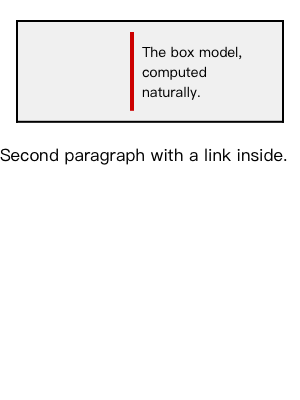
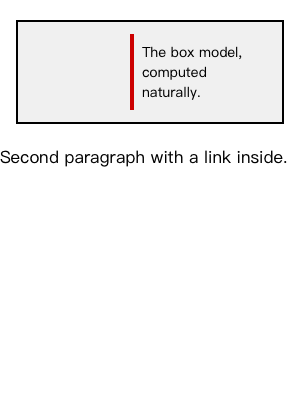
docs(browser-layout): numbers from the latest harness run

diff --git a/docs/browser-layout/phase2a-report.md b/docs/browser-layout/phase2a-report.md
@@ -4,15 +4,15 @@ _Generated by BrowserLayoutABHarnessTests; snapshot artifacts in the local cache
 
 | Book | Category | Chapters | Accepted | Rejected | Engine failures | Parity failures | Page-count diffs | Median first-page (ms) | p95 first-page (ms) | Peak RSS Δ (MB) |
 |---|---|---|---|---|---|---|---|---|---|---|
-| 全知读者视角01 | novel | 8 | 6 | 2 | 0 | 1 | 0 | 5 | 69 | 34.8 |
-| 诡秘之主 | novel | 8 | 8 | 0 | 0 | 0 | 0 | 24 | 174 | 0.0 |
-| 全职高手 | novel | 8 | 8 | 0 | 0 | 0 | 0 | 23 | 80 | 22.9 |
-| 全能游戏设计师 | novel | 8 | 7 | 1 | 0 | 0 | 0 | 0 | 0 | 13.8 |
-| 壹▪洪武大帝 | novel | 8 | 7 | 1 | 0 | 0 | 0 | 11 | 13 | 35.7 |
+| 全知读者视角01 | novel | 8 | 8 | 0 | 0 | 3 | 0 | 5 | 236 | 34.2 |
+| 诡秘之主 | novel | 8 | 8 | 0 | 0 | 0 | 0 | 21 | 155 | 0.0 |
+| 全职高手 | novel | 8 | 8 | 0 | 0 | 0 | 0 | 19 | 74 | 35.2 |
+| 全能游戏设计师 | novel | 8 | 8 | 0 | 0 | 1 | 0 | 0 | 3 | 10.4 |
+| 壹▪洪武大帝 | novel | 8 | 8 | 0 | 0 | 1 | 0 | 11 | 47 | 34.7 |
 | block-image-before-paragraph.epub | images | SKIPPED (missing) | - | - | - | - | - | - |
 | centered-percent-image.epub | images | SKIPPED (missing) | - | - | - | - | - | - |
 | paragraph-border-background.epub | boxes | SKIPPED (missing) | - | - | - | - | - | - |
 | hr-divider-width-alignment-margins.epub | boxes | SKIPPED (missing) | - | - | - | - | - | - |
 | nav-xhtml-basic.epub | links | SKIPPED (missing) | - | - | - | - | - | - |
 | toc-ncx-basic.epub | links | SKIPPED (missing) | - | - | - | - | - | - |
-| 红楼梦脂评汇校本-繁体竖排版 (BookDNA经 | complex-reject | 8 | 0 | 8 | 0 | 0 | 0 | 0 | 0 | 34.3 |
+| 红楼梦脂评汇校本-繁体竖排版 (BookDNA经 | complex-reject | 8 | 0 | 8 | 0 | 0 | 0 | 0 | 0 | 33.1 |

diff --git a/docs/browser-layout/phase1.5-report/metrics.md b/docs/browser-layout/phase1.5-report/metrics.md
@@ -8,7 +8,7 @@
 - layout: 0.0003
 - fragment: 0.0000
 - total: 0.0009
-- peak footprint delta: 114688 bytes
+- peak footprint delta: 16384 bytes
 
 ## Source-range parity
 - ranges ordered (no loss/dup/reorder): true
